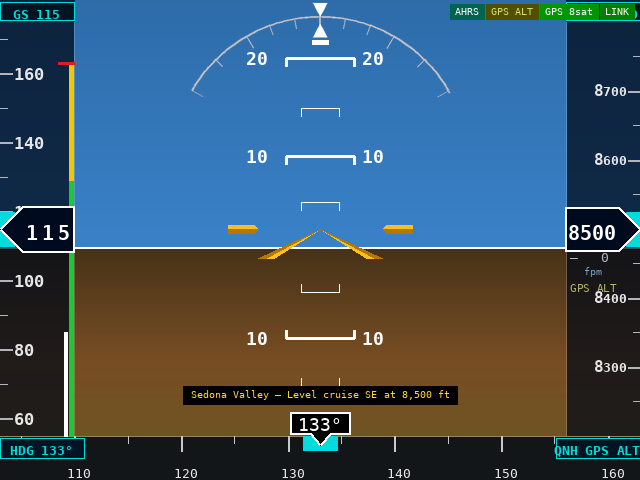
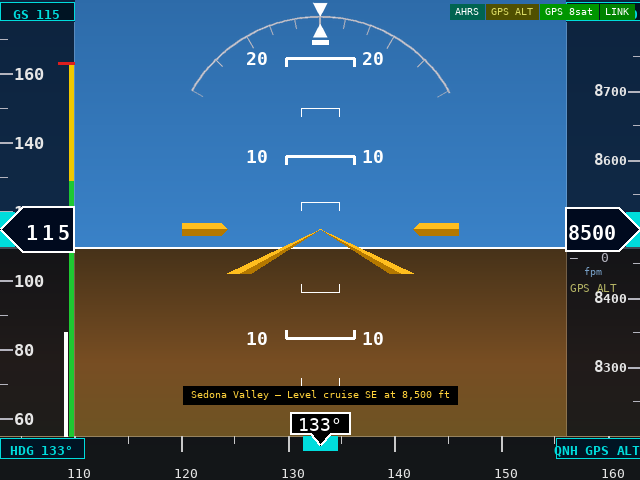
Scale aircraft symbol 1.5× and swap wing shading to light-on-top
Wing span now ±93px (was ±62), trailing edge at CY+44 (was CY+29).
Engine nacelles scale to ±138px outer edge, ±6px tall (was ±92, ±4).
Swapped wing strip colors: outer (leading-edge) side is lighter AMBER,
inner (trailing-edge) side is darker AMBER_DARK — light on top, dark
on bottom as intended.

https://claude.ai/code/session_017SH8gTHM3ctk1qfSPqffyG

diff --git a/pi_display/pfd.py b/pi_display/pfd.py
@@ -409,26 +409,27 @@ AMBER      = (255, 190,  30)   # slightly warmer than YELLOW for symbol fill
 AMBER_DARK = (180, 120,   0)   # shadow/outline
 
 def draw_aircraft_symbol(surf):
-    """Swept delta wing aircraft reference with engine nacelles."""
-    # Wing panels — apex at (CX, CY), trailing edge at CY+29
-    li = [(CX, CY), (CX - 54, CY + 29), (CX - 46, CY + 29)]
-    lo = [(CX, CY), (CX - 62, CY + 29), (CX - 54, CY + 29)]
-    ri = [(CX, CY), (CX + 46, CY + 29), (CX + 54, CY + 29)]
-    ro = [(CX, CY), (CX + 54, CY + 29), (CX + 62, CY + 29)]
-    pygame.gfxdraw.filled_polygon(surf, li, AMBER)
-    pygame.gfxdraw.aapolygon(surf, li, AMBER)
-    pygame.gfxdraw.filled_polygon(surf, lo, AMBER_DARK)
-    pygame.gfxdraw.aapolygon(surf, lo, AMBER_DARK)
-    pygame.gfxdraw.filled_polygon(surf, ri, AMBER)
-    pygame.gfxdraw.aapolygon(surf, ri, AMBER)
-    pygame.gfxdraw.filled_polygon(surf, ro, AMBER_DARK)
-    pygame.gfxdraw.aapolygon(surf, ro, AMBER_DARK)
+    """Swept delta wing aircraft reference with engine nacelles, 1.5× scale."""
+    # Wing panels — apex at (CX, CY), trailing edge at CY+44 (1.5× original 29)
+    # Outer strip = leading-edge side (lighter/top); Inner strip = trailing-edge side (darker/bottom)
+    li = [(CX, CY), (CX - 81, CY + 44), (CX - 69, CY + 44)]   # L inner (darker)
+    lo = [(CX, CY), (CX - 93, CY + 44), (CX - 81, CY + 44)]   # L outer (lighter)
+    ri = [(CX, CY), (CX + 69, CY + 44), (CX + 81, CY + 44)]   # R inner (darker)
+    ro = [(CX, CY), (CX + 81, CY + 44), (CX + 93, CY + 44)]   # R outer (lighter)
+    pygame.gfxdraw.filled_polygon(surf, li, AMBER_DARK)
+    pygame.gfxdraw.aapolygon(surf, li, AMBER_DARK)
+    pygame.gfxdraw.filled_polygon(surf, lo, AMBER)
+    pygame.gfxdraw.aapolygon(surf, lo, AMBER)
+    pygame.gfxdraw.filled_polygon(surf, ri, AMBER_DARK)
+    pygame.gfxdraw.aapolygon(surf, ri, AMBER_DARK)
+    pygame.gfxdraw.filled_polygon(surf, ro, AMBER)
+    pygame.gfxdraw.aapolygon(surf, ro, AMBER)
 
-    # Engine nacelles — at wing-tip x, centered on CY
-    lu = [(CX - 62, CY), (CX - 66, CY - 4), (CX - 92, CY - 4), (CX - 92, CY)]
-    ll = [(CX - 62, CY), (CX - 92, CY),     (CX - 92, CY + 4), (CX - 66, CY + 4)]
-    ru = [(CX + 62, CY), (CX + 66, CY - 4), (CX + 92, CY - 4), (CX + 92, CY)]
-    rl = [(CX + 62, CY), (CX + 92, CY),     (CX + 92, CY + 4), (CX + 66, CY + 4)]
+    # Engine nacelles — at wing-tip x (±93), centered on CY, ±6 tall
+    lu = [(CX - 93, CY), (CX - 99, CY - 6), (CX - 138, CY - 6), (CX - 138, CY)]
+    ll = [(CX - 93, CY), (CX - 138, CY),    (CX - 138, CY + 6), (CX - 99, CY + 6)]
+    ru = [(CX + 93, CY), (CX + 99, CY - 6), (CX + 138, CY - 6), (CX + 138, CY)]
+    rl = [(CX + 93, CY), (CX + 138, CY),    (CX + 138, CY + 6), (CX + 99, CY + 6)]
     pygame.gfxdraw.filled_polygon(surf, lu, AMBER)
     pygame.gfxdraw.aapolygon(surf, lu, AMBER)
     pygame.gfxdraw.filled_polygon(surf, ll, AMBER_DARK)

diff --git a/tools/preview_640x480.py b/tools/preview_640x480.py
@@ -459,19 +459,20 @@ def draw_scene(roll, pitch, hdg, alt, speed, vspeed, ay,
     img = Image.alpha_composite(img.convert('RGBA'), arc_1x).convert('RGB')
     draw = ImageDraw.Draw(img)
 
-    # ── 7. AIRCRAFT SYMBOL — swept delta wings + engine nacelles ─────────────
+    # ── 7. AIRCRAFT SYMBOL — swept delta wings + engine nacelles (1.5× scale) ──
     AMBER = (255, 190, 30)
     AMBER_DARK = (180, 120, 0)
-    # Wing panels — apex at (CX, CY), trailing edge at CY+29
-    draw.polygon([(CX, CY), (CX-54, CY+29), (CX-46, CY+29)], fill=AMBER)       # L inner
-    draw.polygon([(CX, CY), (CX-62, CY+29), (CX-54, CY+29)], fill=AMBER_DARK)  # L outer
-    draw.polygon([(CX, CY), (CX+46, CY+29), (CX+54, CY+29)], fill=AMBER)       # R inner
-    draw.polygon([(CX, CY), (CX+54, CY+29), (CX+62, CY+29)], fill=AMBER_DARK)  # R outer
-    # Engine nacelles — at wing-tip x, centered on CY
-    draw.polygon([(CX-62, CY), (CX-66, CY-4), (CX-92, CY-4), (CX-92, CY)],   fill=AMBER)       # L upper
-    draw.polygon([(CX-62, CY), (CX-92, CY),   (CX-92, CY+4), (CX-66, CY+4)], fill=AMBER_DARK)  # L lower
-    draw.polygon([(CX+62, CY), (CX+66, CY-4), (CX+92, CY-4), (CX+92, CY)],   fill=AMBER)       # R upper
-    draw.polygon([(CX+62, CY), (CX+92, CY),   (CX+92, CY+4), (CX+66, CY+4)], fill=AMBER_DARK)  # R lower
+    # Wing panels — apex at (CX, CY), trailing edge at CY+44 (1.5× original 29)
+    # Outer strip = leading-edge side (lighter/top); Inner strip = trailing-edge side (darker/bottom)
+    draw.polygon([(CX, CY), (CX-81, CY+44), (CX-69, CY+44)], fill=AMBER_DARK)  # L inner
+    draw.polygon([(CX, CY), (CX-93, CY+44), (CX-81, CY+44)], fill=AMBER)       # L outer
+    draw.polygon([(CX, CY), (CX+69, CY+44), (CX+81, CY+44)], fill=AMBER_DARK)  # R inner
+    draw.polygon([(CX, CY), (CX+81, CY+44), (CX+93, CY+44)], fill=AMBER)       # R outer
+    # Engine nacelles — at wing-tip x (±93), centered on CY, ±6 tall
+    draw.polygon([(CX-93, CY), (CX-99, CY-6), (CX-138, CY-6), (CX-138, CY)],   fill=AMBER)       # L upper
+    draw.polygon([(CX-93, CY), (CX-138, CY),  (CX-138, CY+6), (CX-99, CY+6)],  fill=AMBER_DARK)  # L lower
+    draw.polygon([(CX+93, CY), (CX+99, CY-6), (CX+138, CY-6), (CX+138, CY)],   fill=AMBER)       # R upper
+    draw.polygon([(CX+93, CY), (CX+138, CY),  (CX+138, CY+6), (CX+99, CY+6)],  fill=AMBER_DARK)  # R lower
 
     # ── 8. CYAN TAP-BUTTONS ──────────────────────────────────────────────────
     # IAS and ALT bug buttons sit at the TOP of their respective tapes (drawn
